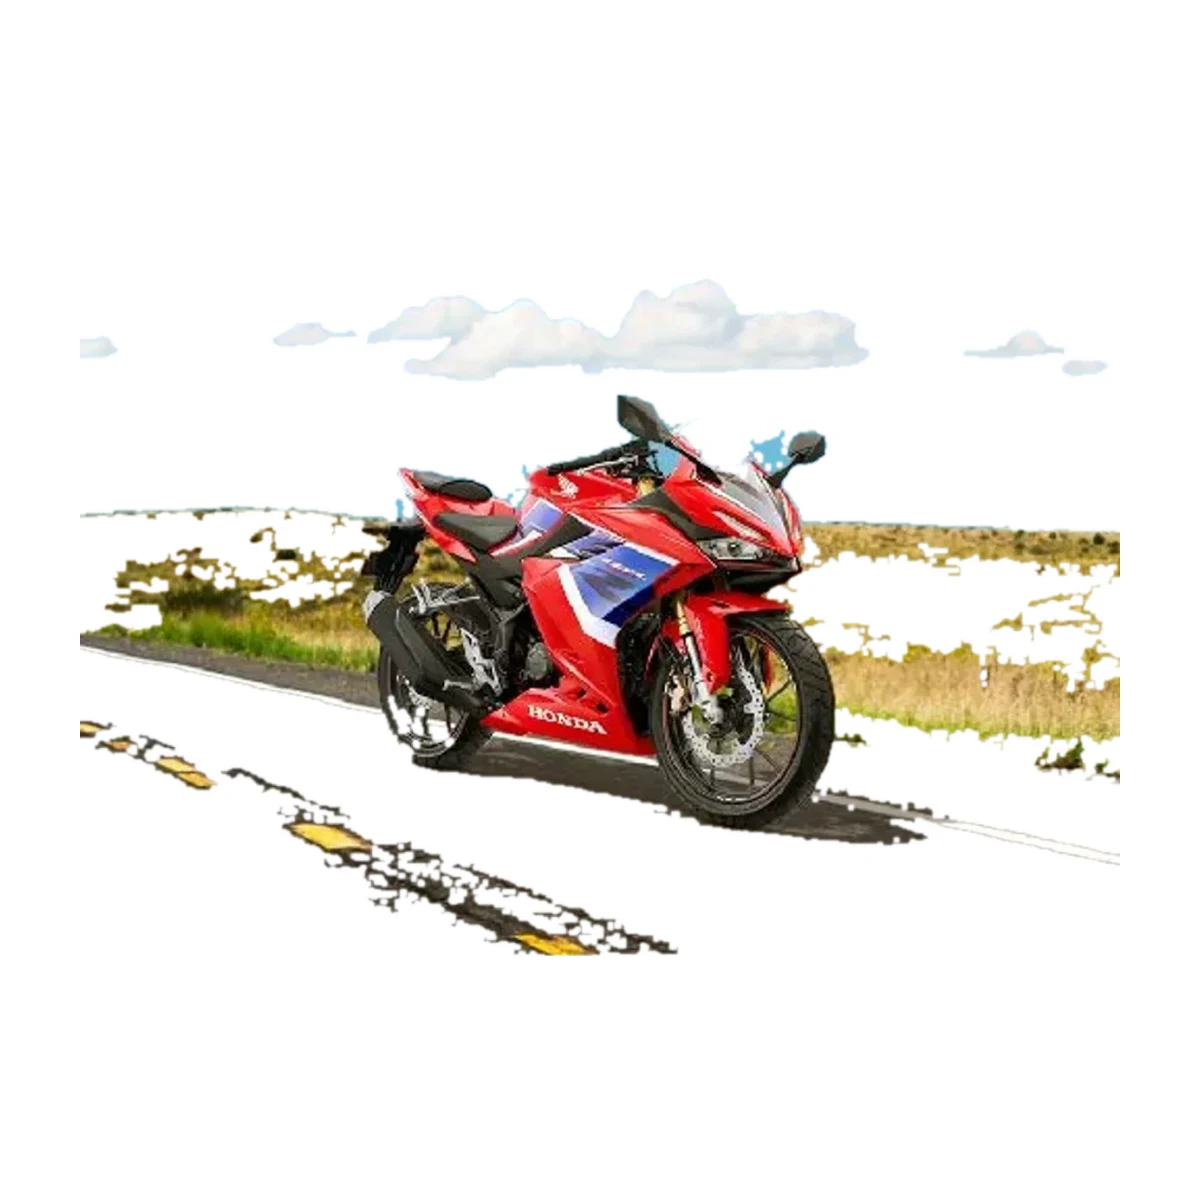
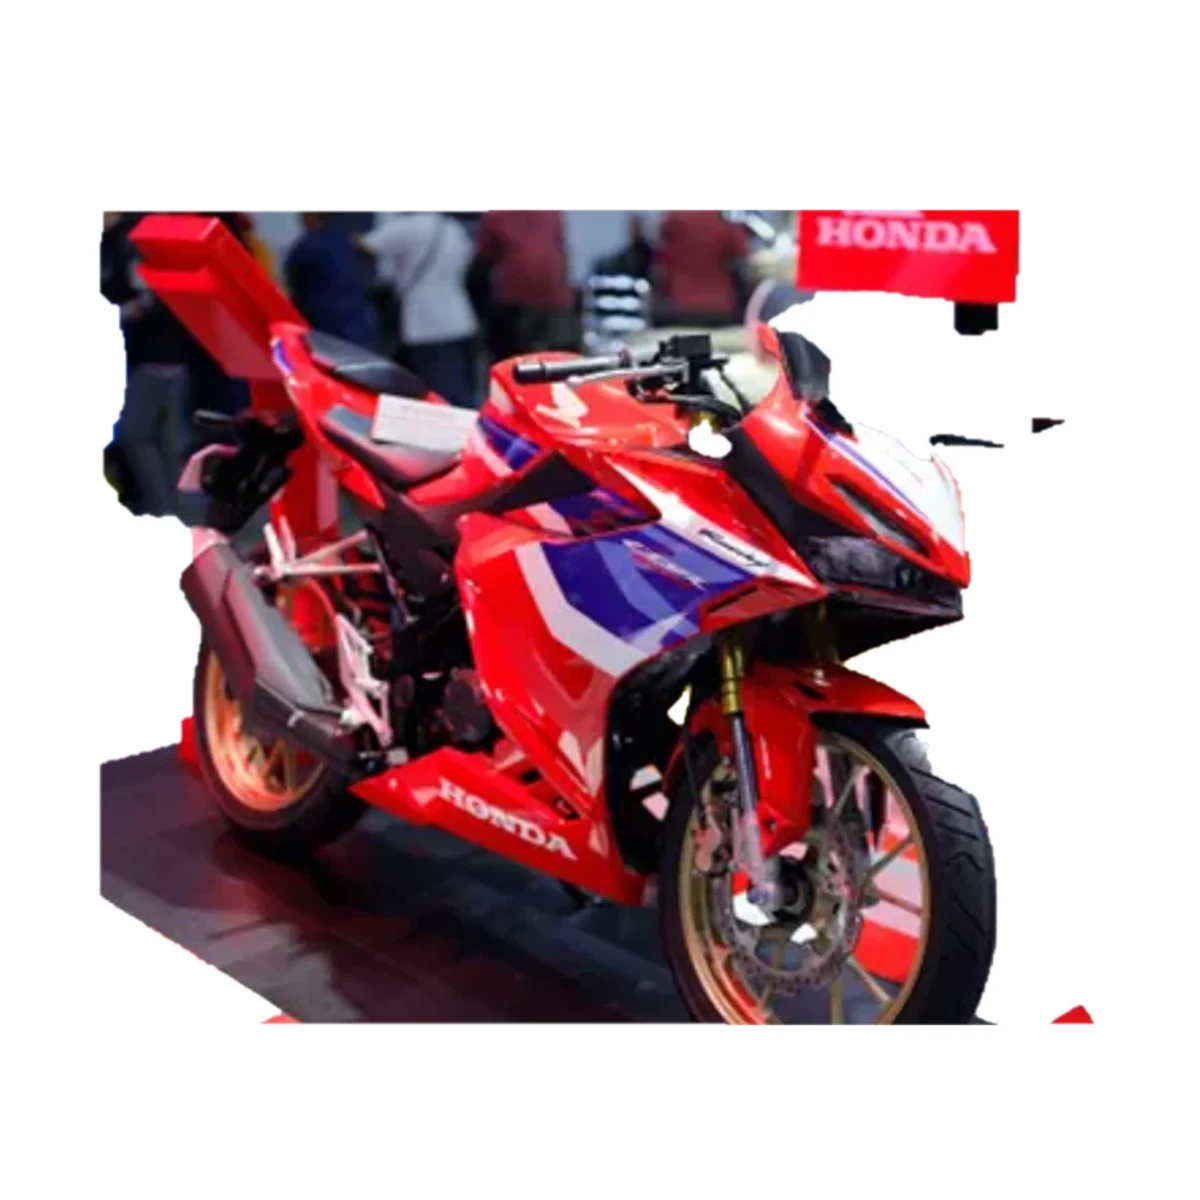
Backfill ten exact motorcycle images (#214)
* Add exact motorcycle image wave 8 backfill script

* Run exact motorcycle image wave 8 backfill

* Fix image source discovery parser

* Use exact AirBlade asset and stable Ninja 650 source

* Replace unstable Ninja source with exact Yamaha R15M asset

* Limit image backfill commit to the ten target models

* Create image backfill artifact directory

* Scope art direction to the image backfill batch

* Allow scoped motorcycle media art direction

* Trigger scoped image backfill after art-direction update

* Backfill ten exact motorcycle images

* Remove one-off image backfill workflow

* Remove one-off motorcycle image backfill script

* Keep image wave focused on media coverage

---------

diff --git a/lib/media.ts b/lib/media.ts
@@ -943,6 +943,56 @@ export const entityMedia: EntityMedia[] = [
     src: "/media/motorcycles/cfmoto-400nk.webp", sourceImageUrl: "https://imgcdn.zigwheels.ph/large/gallery/color/132/2079/cfmoto-400-nk-color-501777.jpg", alt: "CFMoto 400NK naked motorcycle in white and teal", width: 1200, height: 1200,
     rightsStatus: "external-reference", rightsHolder: "ZigWheels Philippines", sourceLabel: "Philippine market image reference · ZigWheels CFMoto 400NK", sourceUrl: "https://www.zigwheels.ph/new-motorcycles/cfmoto/400-nk", lastChecked: "2026-09-22"
   },
+  {
+    id: "honda-airblade-160-honda-official", entityType: "motorcycle", entityId: "honda-airblade-160", role: "primary",
+    src: "/media/motorcycles/honda-airblade-160.webp", sourceImageUrl: "https://cdn.honda.com.vn/motorbike-versions/Image360/November2025/1762148885/0.png", alt: "Honda AirBlade 160 scooter", width: 1200, height: 1200,
+    rightsStatus: "external-reference", rightsHolder: "Honda Vietnam", sourceLabel: "Manufacturer-hosted image reference · Honda AirBlade 160", sourceUrl: "https://www.honda.com.vn/xe-may/san-pham/air-blade-160125", lastChecked: "2026-09-23"
+  },
+  {
+    id: "honda-cbr150r-honda-ph", entityType: "motorcycle", entityId: "honda-cbr150r", role: "primary",
+    src: "/media/motorcycles/honda-cbr150r.webp", sourceImageUrl: "https://images.ctfassets.net/p4ab844it03t/7udRlrxfC4Nqu6blG2EKTY/c7f40fb788d9fe295445bfebfd1b7e48/67e0b720bcd80.png?fm=webp&q=80", alt: "Honda CBR150R sport motorcycle", width: 1200, height: 1200,
+    rightsStatus: "external-reference", rightsHolder: "Honda Philippines", sourceLabel: "Manufacturer-hosted image reference · Honda Philippines CBR150R", sourceUrl: "https://www.hondaph.com/motorcycle/news/honda-philippines-unleashes-power-and-innovation-at-the-action-packed-inside-racing-bikefest-2025", lastChecked: "2026-09-23"
+  },
+  {
+    id: "honda-cbr650r-honda-global", entityType: "motorcycle", entityId: "honda-cbr650r", role: "primary",
+    src: "/media/motorcycles/honda-cbr650r.webp", sourceImageUrl: "https://global.honda/content/dam/site/global-en/newsroom-new/cq_img/news/2023/11/dl/c231107a_004H.jpg", alt: "Honda CBR650R E-Clutch sport motorcycle", width: 1200, height: 1200,
+    rightsStatus: "external-reference", rightsHolder: "Honda Motor Co., Ltd.", sourceLabel: "Manufacturer-hosted image reference · Honda CBR650R", sourceUrl: "https://global.honda/en/newsroom/news/2023/c231107aeng/image_download.html", lastChecked: "2026-09-23"
+  },
+  {
+    id: "honda-crf1100l-africa-twin-honda-global", entityType: "motorcycle", entityId: "honda-crf1100l-africa-twin", role: "primary",
+    src: "/media/motorcycles/honda-crf1100l-africa-twin.webp", sourceImageUrl: "https://global.honda/content/dam/site/global-en/newsroom-new/cq_img/news/2026/01/2260123eng-crf1100l/web/2260123-crf1100l_001L.jpg", alt: "Honda CRF1100L Africa Twin adventure motorcycle", width: 1200, height: 1200,
+    rightsStatus: "external-reference", rightsHolder: "Honda Motor Co., Ltd.", sourceLabel: "Manufacturer-hosted image reference · Honda CRF1100L Africa Twin", sourceUrl: "https://global.honda/en/newsroom/news/2026/2260123eng-crf1100l.html", lastChecked: "2026-09-23"
+  },
+  {
+    id: "honda-xl750-transalp-honda-global", entityType: "motorcycle", entityId: "honda-xl750-transalp", role: "primary",
+    src: "/media/motorcycles/honda-xl750-transalp.webp", sourceImageUrl: "https://global.honda/content/dam/site/global-en/newsroom-new/cq_img/news/2026/03/2260306eng-xl750/web/2260306-xl750_001L.jpg", alt: "Honda XL750 Transalp adventure motorcycle", width: 1200, height: 1200,
+    rightsStatus: "external-reference", rightsHolder: "Honda Motor Co., Ltd.", sourceLabel: "Manufacturer-hosted image reference · Honda XL750 Transalp", sourceUrl: "https://global.honda/en/newsroom/news/2026/2260306eng-xl750.html", lastChecked: "2026-09-23"
+  },
+  {
+    id: "yamaha-lexi-155-yamaha-official", entityType: "motorcycle", entityId: "yamaha-lexi-155", role: "primary",
+    src: "/media/motorcycles/yamaha-lexi-155.webp", sourceImageUrl: "https://www.yamaha-motor.co.id/uploads/products/new_product_model_image/202601210136411054B75592.png", alt: "Yamaha LEXi LX 155 scooter", width: 1200, height: 1200,
+    rightsStatus: "external-reference", rightsHolder: "Yamaha Motor", sourceLabel: "Manufacturer-hosted image reference · Yamaha LEXi LX 155", sourceUrl: "https://www.yamaha-motor.co.id/product/lexi-lx-155/", lastChecked: "2026-09-23"
+  },
+  {
+    id: "yamaha-yzf-r3-yamaha-global", entityType: "motorcycle", entityId: "yamaha-yzf-r3", role: "primary",
+    src: "/media/motorcycles/yamaha-yzf-r3.webp", sourceImageUrl: "https://global.yamaha-motor.com/jp/news/assets_c/2025/03/105849_0001-thumb-1360x1019-260019.jpg", alt: "Yamaha YZF-R3 sport motorcycle", width: 1200, height: 1200,
+    rightsStatus: "external-reference", rightsHolder: "Yamaha Motor Co., Ltd.", sourceLabel: "Manufacturer-hosted image reference · Yamaha YZF-R3", sourceUrl: "https://global.yamaha-motor.com/jp/news/2025/0318/yzf-r3.html", lastChecked: "2026-09-23"
+  },
+  {
+    id: "yamaha-yzf-r7-yamaha-global", entityType: "motorcycle", entityId: "yamaha-yzf-r7", role: "primary",
+    src: "/media/motorcycles/yamaha-yzf-r7.webp", sourceImageUrl: "https://global.yamaha-motor.com/jp/news/topics_assets/132520_0001.jpg", alt: "Yamaha YZF-R7 sport motorcycle", width: 1200, height: 1200,
+    rightsStatus: "external-reference", rightsHolder: "Yamaha Motor Co., Ltd.", sourceLabel: "Manufacturer-hosted image reference · Yamaha YZF-R7", sourceUrl: "https://global.yamaha-motor.com/jp/news/2026/0409/yzf.html", lastChecked: "2026-09-23"
+  },
+  {
+    id: "kawasaki-z900-kawasaki-global", entityType: "motorcycle", entityId: "kawasaki-z900", role: "primary",
+    src: "/media/motorcycles/kawasaki-z900.webp", sourceImageUrl: "https://global.kawasaki.com/en/corp/newsroom/news/images/news_241031-Z900%20.jpg", alt: "Kawasaki Z900 naked motorcycle", width: 1200, height: 1200,
+    rightsStatus: "external-reference", rightsHolder: "Kawasaki Motors, Ltd.", sourceLabel: "Manufacturer-hosted image reference · Kawasaki Z900", sourceUrl: "https://global.kawasaki.com/en/corp/newsroom/news/detail/?f=20241031_1292", lastChecked: "2026-09-23"
+  },
+  {
+    id: "yamaha-yzf-r15m-yamaha-india", entityType: "motorcycle", entityId: "yamaha-yzf-r15m", role: "primary",
+    src: "/media/motorcycles/yamaha-yzf-r15m.webp", sourceImageUrl: "https://shop.yamaha-motor-india.com/cdn/shop/files/metallic_grey.webp?v=1757050338", alt: "Yamaha R15M sport motorcycle in Metallic Grey", width: 1200, height: 1200,
+    rightsStatus: "external-reference", rightsHolder: "India Yamaha Motor", sourceLabel: "Manufacturer e-shop image reference · Yamaha R15M", sourceUrl: "https://shop.yamaha-motor-india.com/products/buy-r15m", lastChecked: "2026-09-23"
+  },
 ];
 
 export function getRenderableMedia(entityType: EntityMedia["entityType"], entityId: string) {
